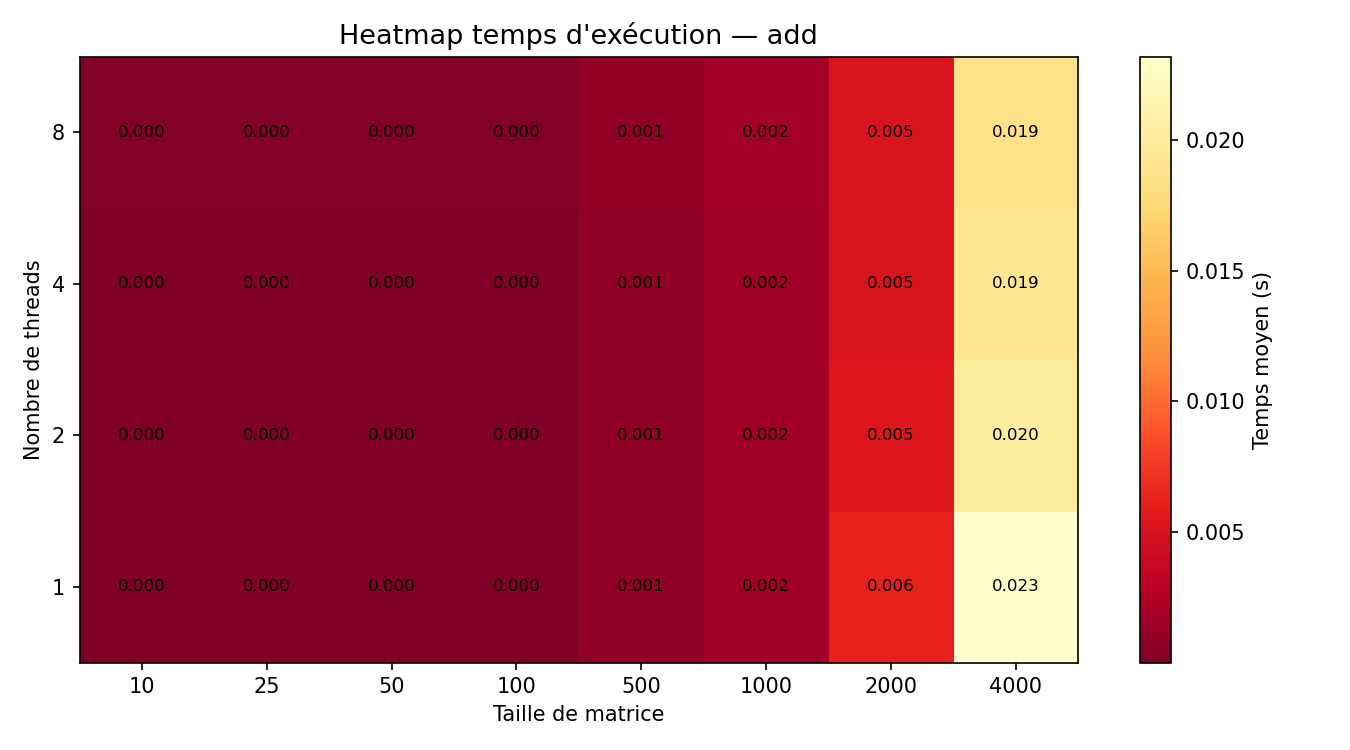
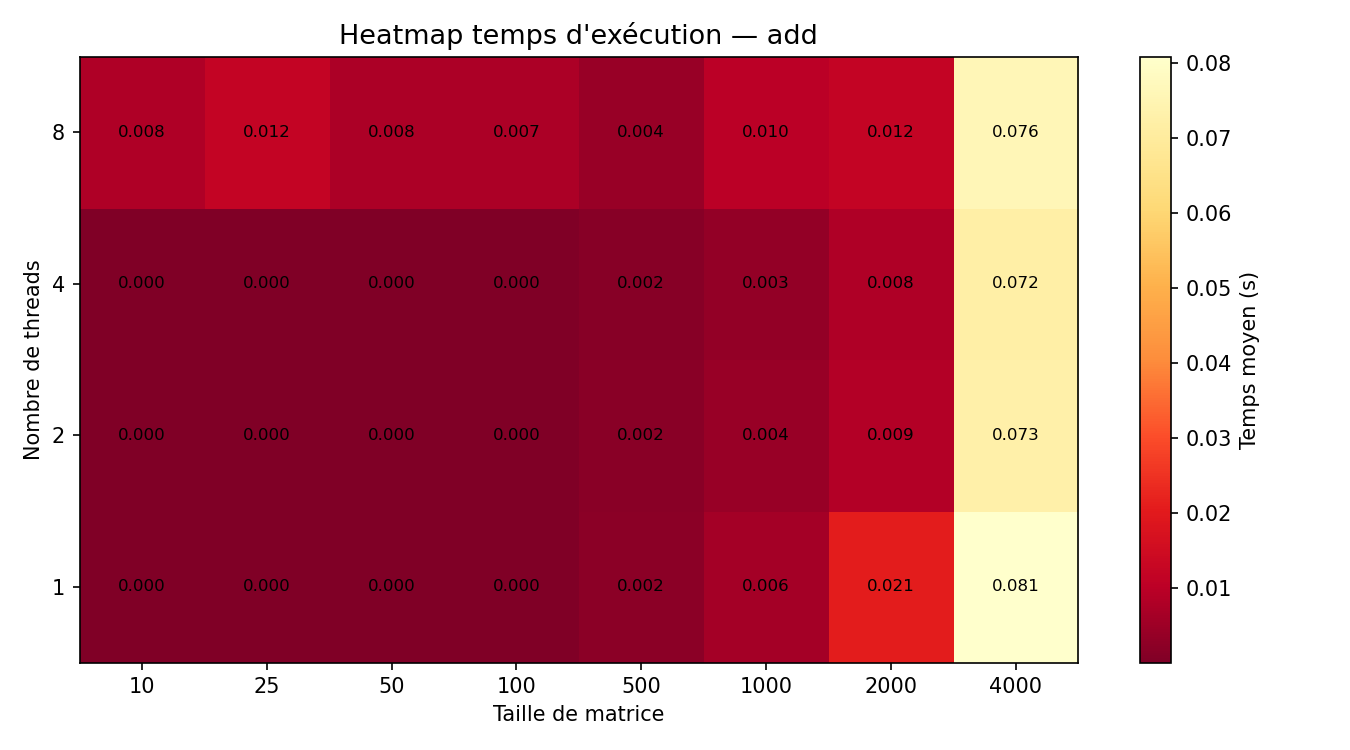
okay

diff --git a/project/plot_heatmap_speedup.py b/project/plot_heatmap_speedup.py
@@ -3,7 +3,7 @@ import matplotlib.pyplot as plt
 import numpy as np
 import os
 
-CSV_PATH = os.path.join(os.path.dirname(__file__), "csv", "mesures_perso_threads_on_server_previous_imp.csv")
+CSV_PATH = os.path.join(os.path.dirname(__file__), "csv", "mesures_perso_threads_my_pc_previous.csv")
 OUT_DIR  = os.path.join(os.path.dirname(__file__), "report", "pics")
 
 df = pd.read_csv(CSV_PATH, skipinitialspace=True)

diff --git a/project/plot_part1.py b/project/plot_part1.py
@@ -4,7 +4,7 @@ import numpy as np
 import sys
 import os
 
-CSV_PATH = os.path.join(os.path.dirname(__file__), "csv", "mesures_perso_on_server.csv")
+CSV_PATH = os.path.join(os.path.dirname(__file__), "csv", "mesures_perso_on_server_tilling.csv")
 
 # --- Chargement ---
 df = pd.read_csv(CSV_PATH, skipinitialspace=True)
